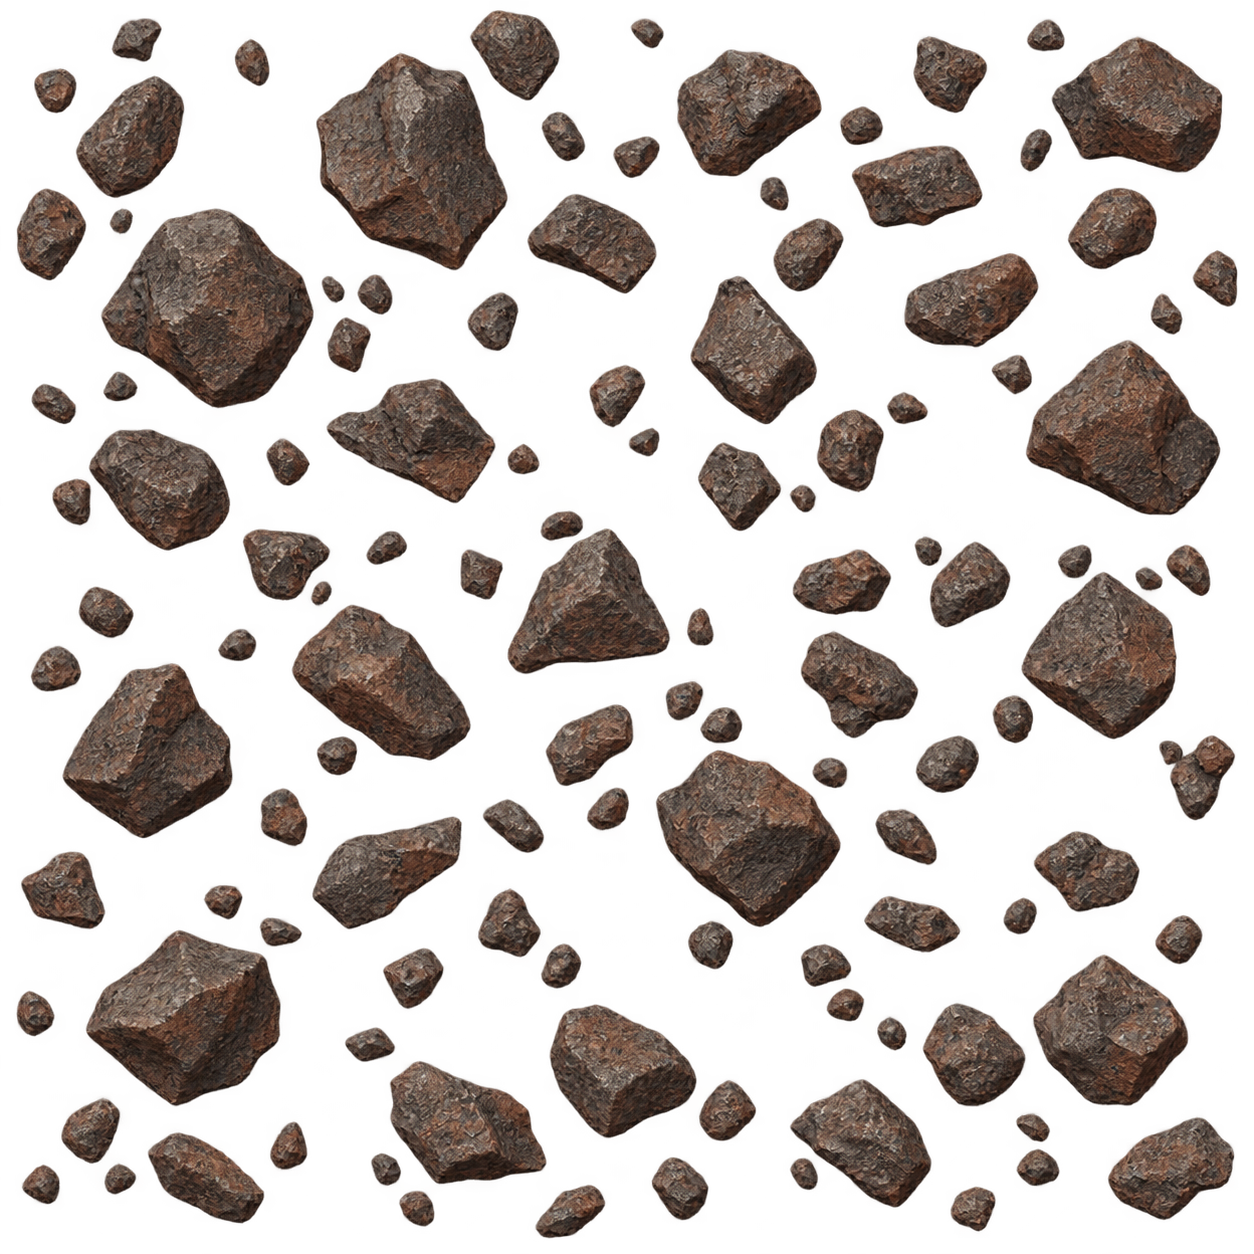
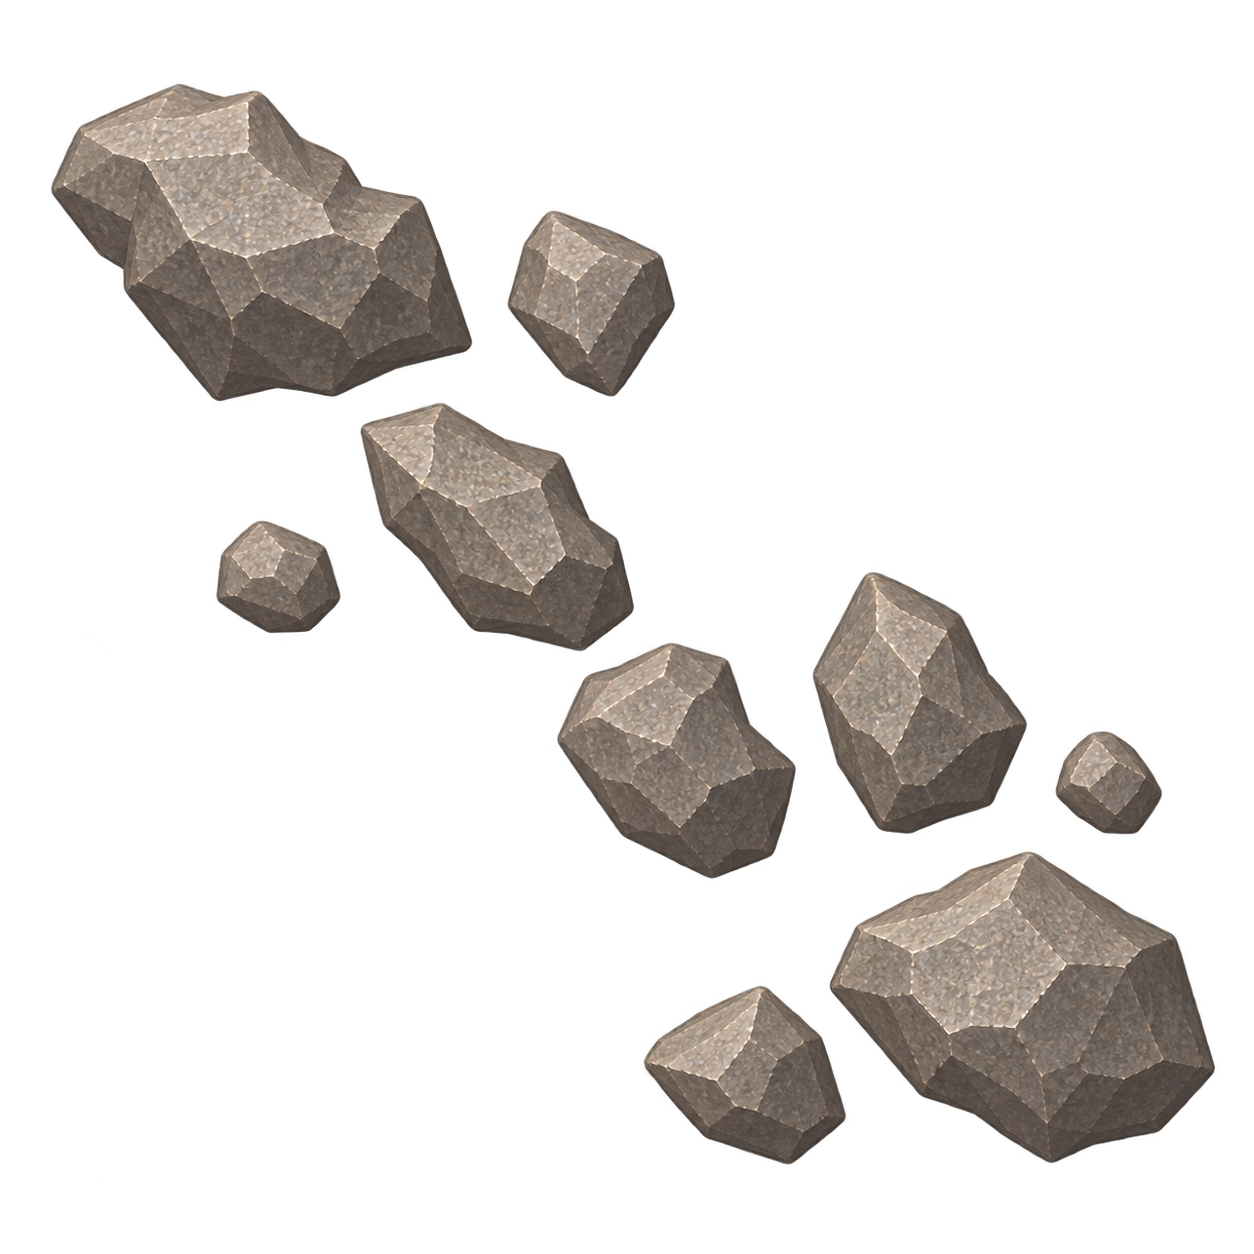
fix: prevent rock and iron terrain overlap

diff --git a/Assets/Game/Scripts/World/Ground/TerrainControlMapBuilder.cs b/Assets/Game/Scripts/World/Ground/TerrainControlMapBuilder.cs
@@ -69,10 +69,19 @@ namespace PlanetSurvival.World.Ground
                     byte g1 = 0;
                     byte b1 = 0;
                     byte a1 = 0;
+                    // Gameplay resolves overlapping terrain by priority: the first matching layer owns
+                    // the tile. Keep the render data subject to the same rule. This matters for cutout
+                    // artwork because otherwise transparent pixels in iron would reveal a lower rock
+                    // layer and make one tile look as though it contains both resources.
                     for (int layerIndex = 0; layerIndex < layerCount; layerIndex++)
                     {
                         float distance = layers[layerIndex].SignedDistanceToEdge(
                             map.WorldSeed, worldX, worldZ, map.CoverageMultiplier);
+                        if (distance < 0f)
+                        {
+                            continue;
+                        }
+
                         byte weight = ToByte(SmoothTransition(distance, safeBlendDistance));
                         switch (layerIndex)
                         {
@@ -85,6 +94,8 @@ namespace PlanetSurvival.World.Ground
                             case 6: b1 = weight; break;
                             case 7: a1 = weight; break;
                         }
+
+                        break;
                     }
 
                     control0[pixelIndex] = new Color32(r0, g0, b0, a0);

diff --git a/Assets/Game/Tests/EditMode/TerrainChunkViewTests.cs b/Assets/Game/Tests/EditMode/TerrainChunkViewTests.cs
@@ -221,23 +221,22 @@ namespace PlanetSurvival.Tests
         }
 
         [Test]
-        public void ControlMap_HigherLayerFadesIntoAStillOpaqueLowerLayer()
+        public void ControlMap_OverlappingLayers_OnlyGiveWeightToTheHighestPriorityLayer()
         {
             TerrainTileMap map = CreateOverlappingMap();
             Color32[] control = BuildFirstControlMap(map, new TerrainTileCoordinate(0, 0));
-            bool foundCrossFade = false;
+            bool foundUpperLayer = false;
             for (int i = 0; i < control.Length; i++)
             {
-                if (control[i].r > 0 && control[i].r < byte.MaxValue
-                    && control[i].g == byte.MaxValue)
+                if (control[i].r > 0)
                 {
-                    foundCrossFade = true;
-                    break;
+                    foundUpperLayer = true;
+                    Assert.That(control[i].g, Is.Zero,
+                        "A lower terrain layer must not render below transparent pixels of the winning layer.");
                 }
             }
 
-            Assert.That(foundCrossFade, Is.True,
-                "A high-priority surface such as ice must fade into rock, not inherit the union's hard edge.");
+            Assert.That(foundUpperLayer, Is.True, "The test area did not reach the upper terrain layer.");
         }
 
         [Test]
